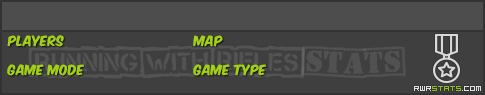
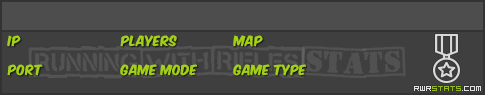
Update server dynamic image

diff --git a/dynamic_image.py b/dynamic_image.py
@@ -126,14 +126,20 @@ class DynamicServerImage(DynamicImage):
 
     def _do_create_body(self):
         """Create the body (main area) of the dynamic server image."""
-        # Players
-        self._draw_text((8, 44), '{}/{}'.format(self.server.players.current, self.server.players.max))
+        # IP
+        self._draw_text((7, 44), self.server.ip)
 
-        # Map
-        self._draw_text((194, 44), self.server.map.name_display)
+        # Port
+        self._draw_text((7, 73), str(self.server.port))
+
+        # Players
+        self._draw_text((121, 44), '{}/{}'.format(self.server.players.current, self.server.players.max))
 
         # Server mode
-        self._draw_text((8, 73), self.server.mode_name_long)
+        self._draw_text((121, 73), self.server.mode_name_long)
+
+        # Map
+        self._draw_text((234, 44), self.server.map.name_display)
 
         # Server type
-        self._draw_text((194, 73), self.server.type_name)
+        self._draw_text((234, 73), self.server.type_name)
